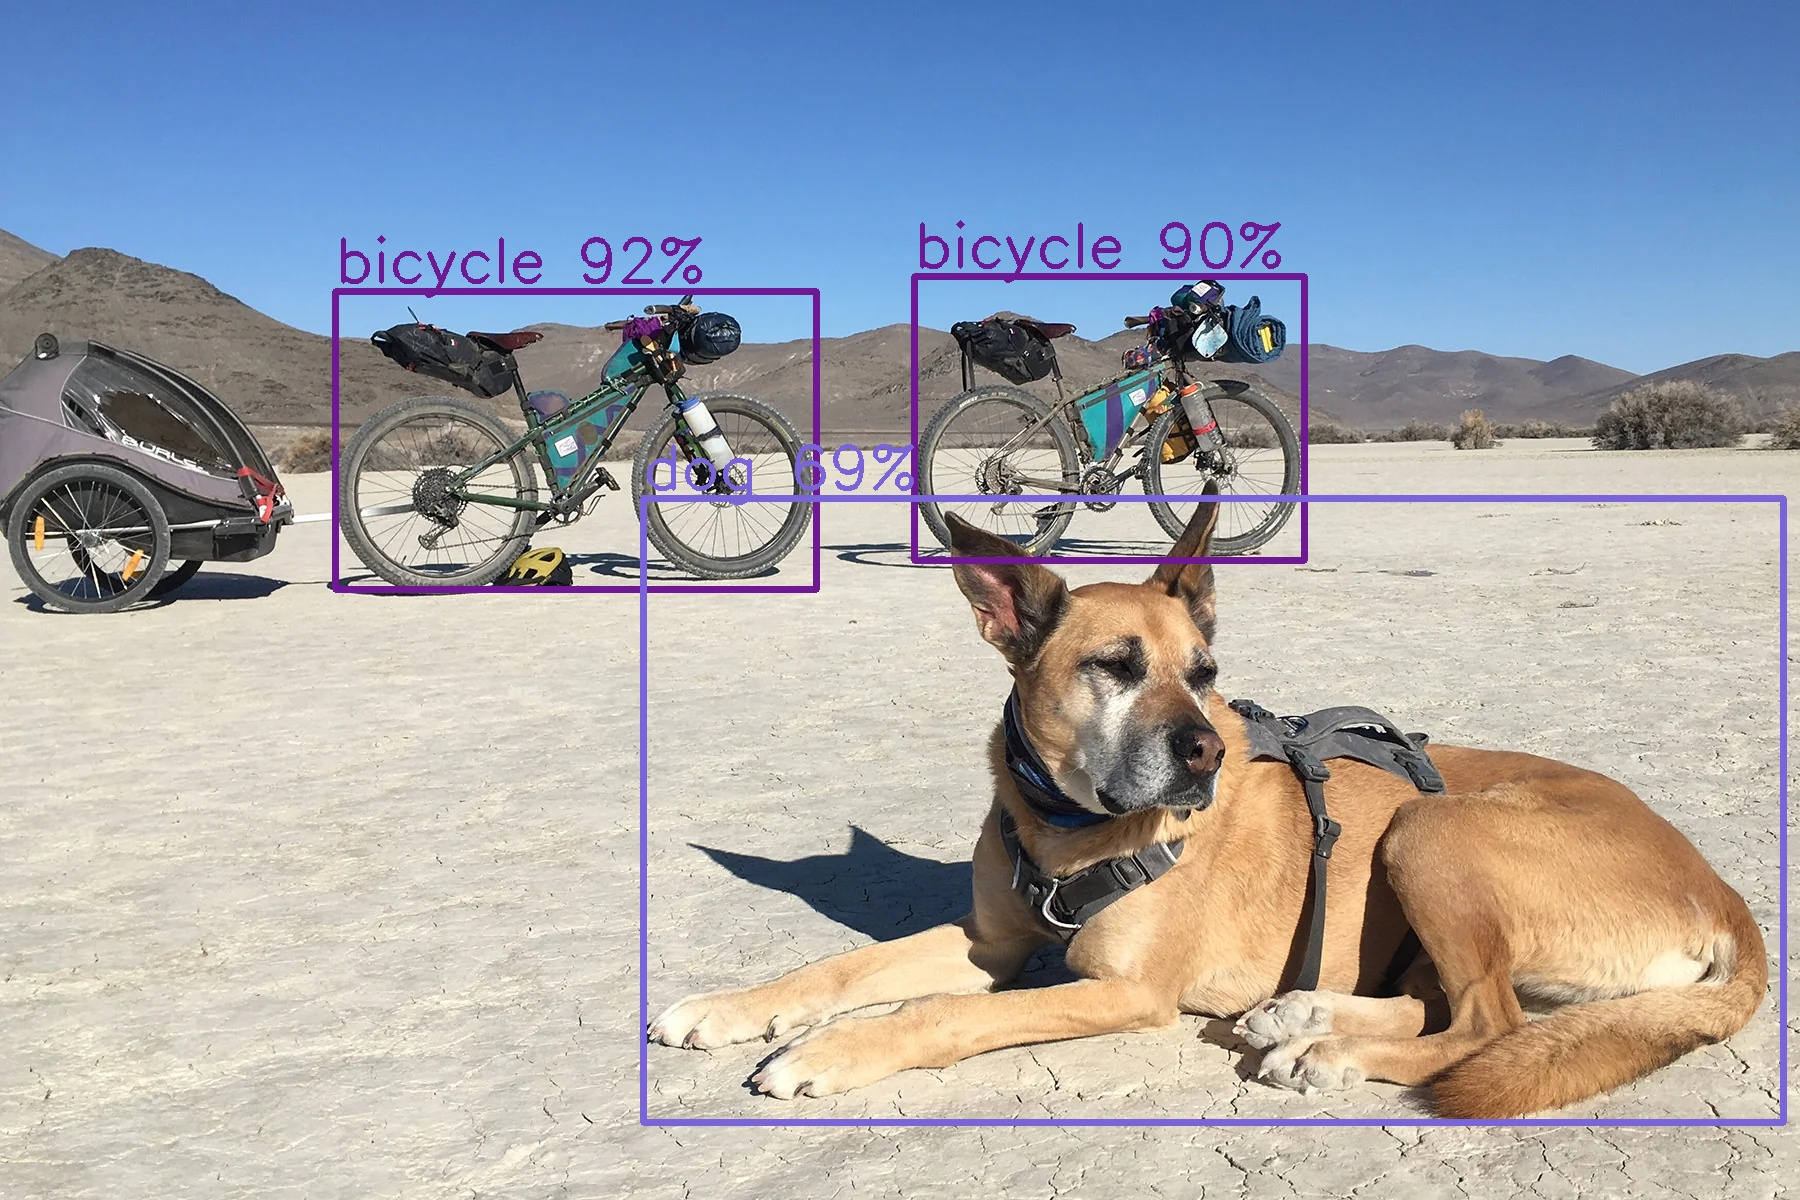
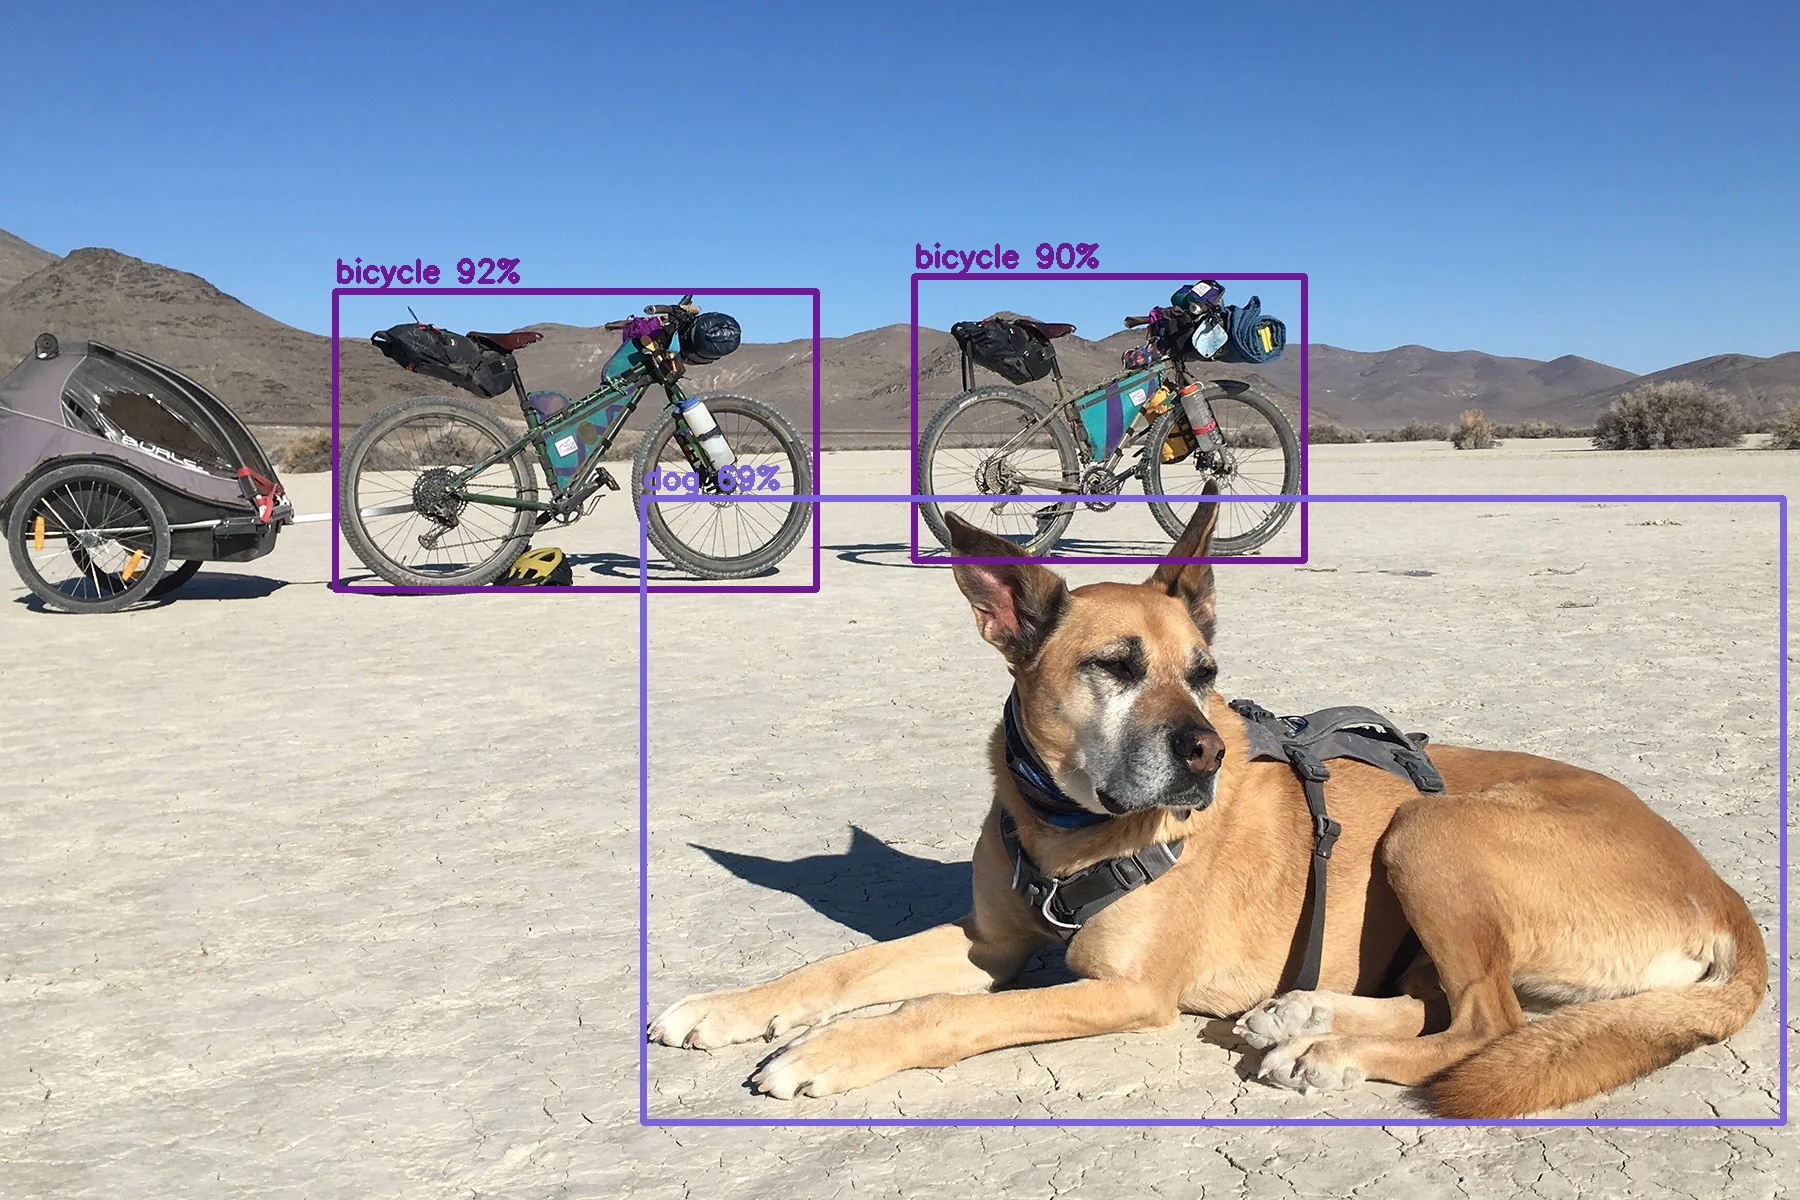
tiny tweaks

Changed region(s): [[0.4978, 0.185, 0.7156, 0.2467], [0.1867, 0.185, 0.4044, 0.2467], [0.3422, 0.37, 0.5289, 0.4317]]

diff --git a/main.py b/main.py
@@ -39,7 +39,7 @@ def forward_pass(
     """
     blob = cv2.dnn.blobFromImage(image, 1 / 255.0)
     network.setInput(blob)
-    return network.forward(output_names)[0]
+    return network.forward(output_names)[0][0]  # 1 for output type, 1 for batch dim
 
 
 def draw_boxes(
@@ -68,7 +68,7 @@ def draw_boxes(
             label,
             org=(x, y - 10),
             fontFace=cv2.FONT_HERSHEY_SIMPLEX,
-            fontScale=np.round(np.sqrt(scale)),
+            fontScale=scale // 4,
             color=color,
             thickness=scale // 2,
         )
@@ -98,39 +98,49 @@ def process_output(
 ) -> tuple[np.ndarray]:
     """Process the output of the yolo model to get a collection of bounding boxes.
 
-    Full Yolo model output is typicaly:
-    - Grid X = Number of X grid cells (60)
-    - Grid Y = Number of Y grid cells (40)
-    - Num_Anchors = Number of anchor boxes per gird cell (7)
-    - 85 = Box features (x1, y1, width, height, prob_object, *prob_classes)
-    First 3 dimensions are often merged
+    Parameters
+    ----------
+    outputs : np.ndarray
+        Full YOLO model output of shape (60 x 40 x 7, 85).
+        (60 x 40 x 7) = GridX x GridY x Num_Anchors
+        85 = Box features (x_cent, y_cent, width, height, prob_object, *prob_classes)
+    size_ratio : np.ndarray
+        The ratio of the original image size to the model input size.
+    conf_threshold : float, optional
+        The threshold for filtering out low confidence predictions.
+        Default is 0.5.
+    iou_threshold : float, optional
+        The Intersection Over Union (IOU) threshold for non-maxima suppression.
+        Default is 0.5.
+
+    Returns
+    -------
+    tuple[np.ndarray]
+        The surviving boxes after non-maxima suppression, their scores, and class IDs.
     """
 
-    # Pop off the additional batch dimension
-    predictions = outputs[0]
-
     # Get the anchors the have a high confidence that they contain an object
-    obj_conf = predictions[:, 4]
+    obj_conf = outputs[:, 4]
     confidence_mask = obj_conf > conf_threshold
-    predictions = predictions[confidence_mask]
+    outputs = outputs[confidence_mask]
     obj_conf = obj_conf[confidence_mask]
 
     # Multiply class confidence with bounding box confidence
-    predictions[:, 5:] *= obj_conf[:, None]  # Is this necc?
+    outputs[:, 5:] *= obj_conf[:, None]  # Is this necc?
 
     # Get the maximum class score
-    max_scores = np.max(predictions[:, 5:], axis=-1)
+    max_scores = np.max(outputs[:, 5:], axis=-1)
 
     # Filter out boxes where the class is ambiguous (low max score)
     valid_mask = max_scores > conf_threshold
-    predictions = predictions[valid_mask]
+    outputs = outputs[valid_mask]
     max_scores = max_scores[valid_mask]
 
     # Get the class id corresponding to the max score
-    class_ids = np.argmax(predictions[:, 5:], axis=-1)
+    class_ids = np.argmax(outputs[:, 5:], axis=-1)
 
     # Get bounding boxes for each object
-    boxes = extract_boxes(predictions, size_ratio)
+    boxes = extract_boxes(outputs, size_ratio)
 
     # Apply non-maxima suppression to suppress weak, overlapping bounding boxes
     indices = cv2.dnn.NMSBoxes(boxes, max_scores, conf_threshold, iou_threshold)
